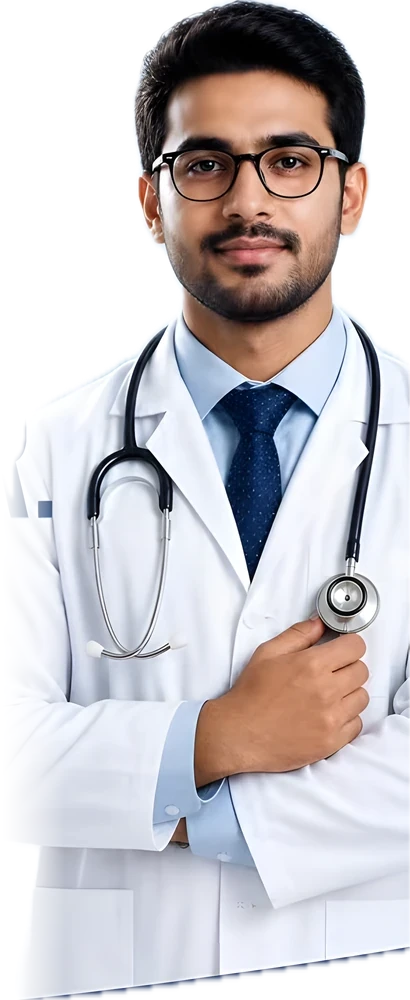
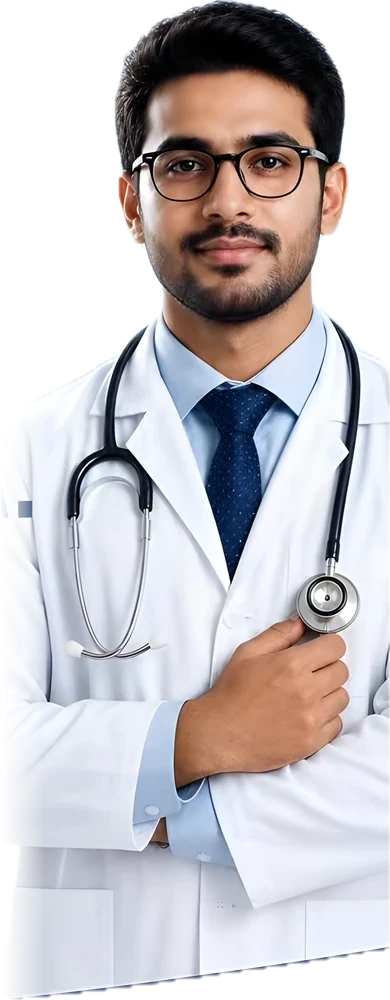
Fix tile text width and portrait haze
- Remove a leftover 340px rule that let tile text run under portraits
- Clear faint edge haze from all cut-out portraits
- Drop the drop-shadow that Chrome rendered as a grey box with the fade mask

diff --git a/css/styles.css b/css/styles.css
@@ -180,7 +180,7 @@ h2 + .lede, h2 + .reveal.lede { margin-top: 22px; }
 .tile:hover .t-bg { box-shadow: 0 30px 70px -30px rgba(7,26,61,.9); }
 .t-bg .t-art { position: absolute; left: -6%; bottom: -14%; width: 62%; max-width: 260px; opacity: .14; transform: rotate(-12deg); }
 .t-person { position: absolute; z-index: 1; right: 2%; bottom: 0; height: calc(100% + 36px); max-width: 44%; object-fit: contain; object-position: bottom right; pointer-events: none;
-  transform: translate(var(--px, 0px), var(--py, 0px)); transition: transform .6s var(--ease); filter: drop-shadow(0 24px 30px rgba(0,0,0,.35));
+  transform: translate(var(--px, 0px), var(--py, 0px)); transition: transform .6s var(--ease);
   -webkit-mask-image: linear-gradient(to top, transparent 0, #000 14%); mask-image: linear-gradient(to top, transparent 0, #000 14%); }
 .tile h3, .tile p, .tile .t-foot, .tile .t-count { z-index: 2; }
 .tile p, .tile h3 { max-width: 50%; text-shadow: 0 2px 18px rgba(0,0,0,.35); }
@@ -192,7 +192,7 @@ h2 + .lede, h2 + .reveal.lede { margin-top: 22px; }
 
 .tile .t-count { position: absolute; top: 22px; left: 24px; font-size: 13px; padding: 4px 12px; border-radius: 999px; background: rgba(255,255,255,.14); backdrop-filter: blur(6px); }
 .tile h3 { color: #fff; font-size: 24px; margin-bottom: 6px; }
-.tile p { font-size: 14.5px; color: rgba(255,255,255,.75); max-width: 340px; }
+.tile p { font-size: 14.5px; color: rgba(255,255,255,.75); }
 .tile .t-foot { display: flex; align-items: center; justify-content: space-between; margin-top: 16px; gap: 10px; }
 .tile .t-from { font-size: 14px; color: var(--gold-light); font-weight: 600; }
 .tile .t-go { width: 38px; height: 38px; border-radius: 50%; background: rgba(255,255,255,.14); display: grid; place-items: center; transition: background .3s, transform .5s var(--ease); flex: none; }
